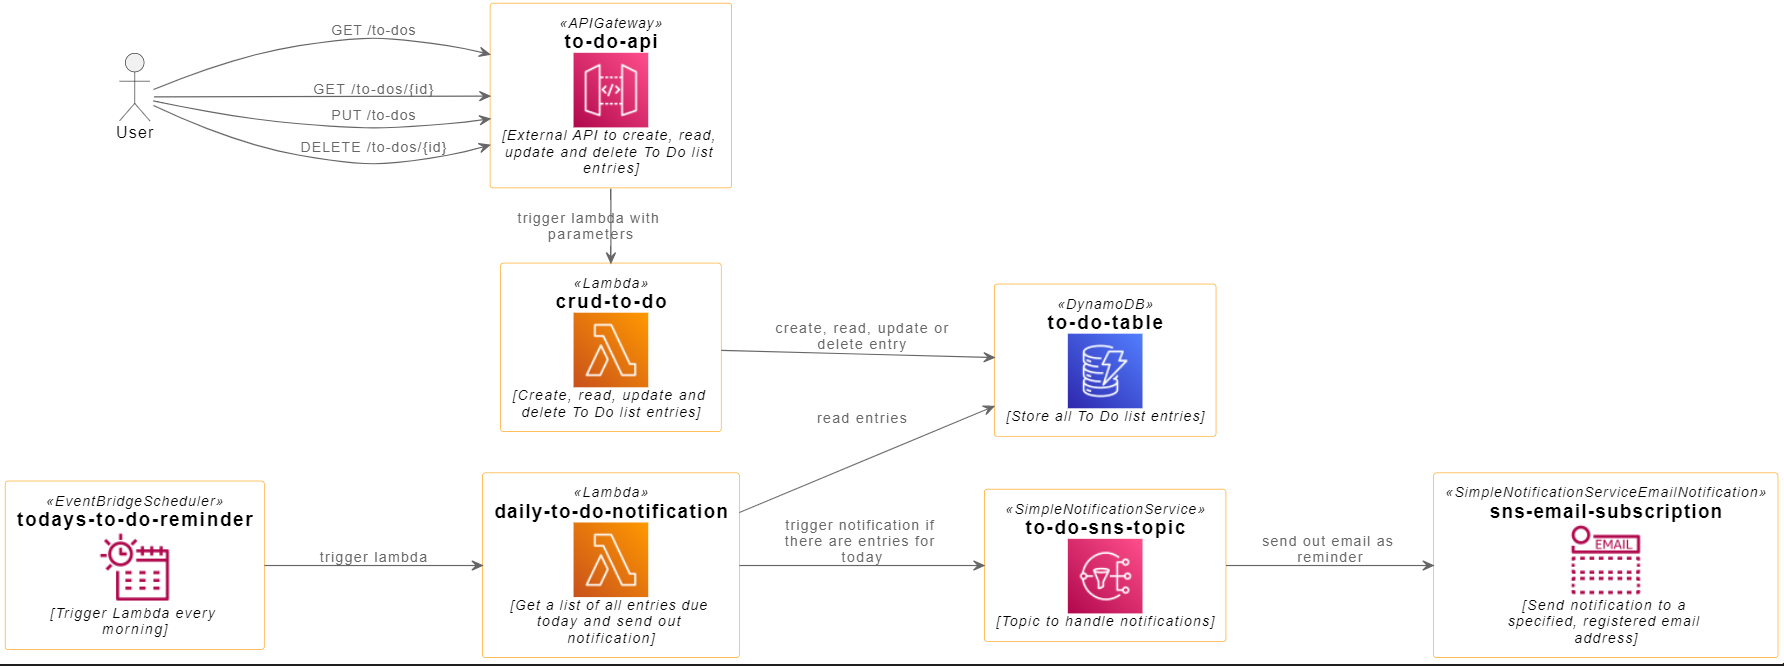
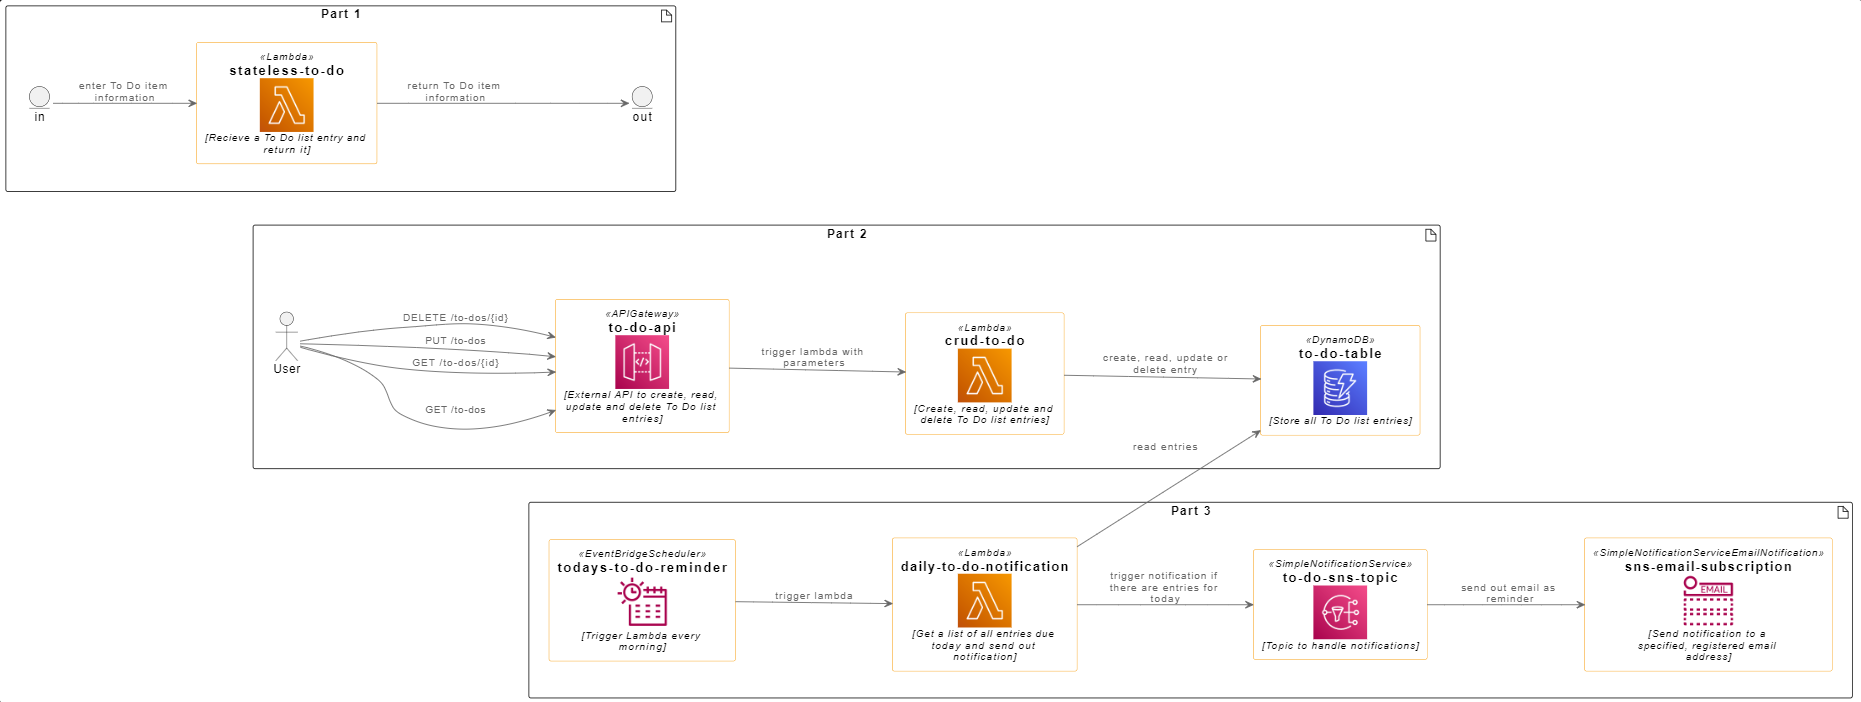
Update instructions based on workshop feedback

diff --git a/docs/HowToOnAWS.md b/docs/HowToOnAWS.md
@@ -4,9 +4,25 @@ Hints and instructions for the workshop
 
 > Leverage the Cloud to Deploy and Run your Backend App
 
-hosted by [women++](https://www.womenplusplus.ch/) and [Iris Hunkeler](https://www.linkedin.com/in/iris-hunkeler/)
+hosted by [women++](https://www.womenplusplus.ch/), facilitated by [Iris Hunkeler](https://www.linkedin.com/in/iris-hunkeler/)
 
-## … create a new IAM role
+
+# Part 1
+
+## Create a Lambda function
+* Go to AWS Lambda → click “Create function”
+* Settings
+  * Select “Author from scratch”
+  * Function name: e.g. stateless-to-do
+  * Runtime: Python 3.10
+  * Leave the rest at default settings
+  * Click “Create function”
+* Copy the code for the function: [stateless-to-do](../lambda_functions/stateless_to_do/app.py)
+  * in the same folder, you can also find test events
+
+# Part 2
+
+## Create a new IAM role
 * Go to IAM (Identity and Access Management)
 * Go to Roles → Click “Create role”
 * Step 1:
@@ -18,8 +34,7 @@ hosted by [women++](https://www.womenplusplus.ch/) and [Iris Hunkeler](https://w
   * Role name: todo-lambda-role
   * Click “Create role”
 
-
-## … create a DynamoDB table
+## Create a DynamoDB table
 * Go to DynamoDB → Click “Create table”
 * Settings
   * Table name: to-do-table
@@ -28,20 +43,21 @@ hosted by [women++](https://www.womenplusplus.ch/) and [Iris Hunkeler](https://w
   * Capacity mode “On-demand”
   * Click “Create table”
 
-
-## … create a Lambda function
-* Go to AWS Lambda → click “Create function”
-* Settings
-  * Select “Author from scratch”
-  * Function name: e.g. stateless-do-to
+## Create a Lambda function
+* Similar as before, but this time use the following settings: 
+  * Function name: e.g. crud-to-do
   * Runtime: Python 3.10
   * Open “Change default execution role” and switch it to “Use an existing role”
   * Select our previously created “todo-lambda-role”
-  * Leave the rest at default settings
-  * Click “Create function”
-
-## … create a API Gateway
+* Copy the code for the function: [crud-to-do](../lambda_functions/crud-to-do/app.py)
+  * in the same folder, you can also find test events
+  
+## Create a API Gateway
 * Go to API Gateway
+* Click "Create API"
+* Scroll to REST API and Click "Build"
+  * API name: e.g. to-do-api
+  * Click "Create API"
 * Click Actions → Create Resource
   * Resource Name: To Dos
   * Resource Path: automatically set to “to-dos” based on name
@@ -58,7 +74,15 @@ Our goal is to have an API endpoint for each of the methods we handle in the Lam
 
 ![structure](api-gateway-structure.png)
 
-## … create an SNS topic and subscription
+# Part 3
+
+## Create a Lambda function
+* Create an other Lambda function, use the same settings and role as for the crud-to-do function
+* Function name: e.g. daily-to-do-notification
+* Copy the code for the function: [daily-to-do-notification](../lambda_functions/daily-to-do-notification/app.py)
+  * in the same folder, you can also find test events
+
+## Create an SNS topic and subscription
 * **Topic**: Go to Simple Notification Service → Topics → Click “Create topic”
   * Type: Standard
   * Name: to-do-sns-topic
@@ -72,7 +96,7 @@ Our goal is to have an API endpoint for each of the methods we handle in the Lam
     * you can also use a service for throw-away-email-addresses such as [mailinator](https://www.mailinator.com/)
   * Click “Create subscription”
 
-## … create a Scheduler
+## Create a Scheduler
 * Go to Amazon EventBridge → Schedules → Click “Create schedule”
 * Step 1:
   * Schedule name: todays-to-do-reminder
@@ -89,10 +113,14 @@ Our goal is to have an API endpoint for each of the methods we handle in the Lam
   * Permissions: Create a new role for this schedule
   * Review and Click “Create schedule”
 
-## Links to source code for Lambda functions
-* [stateless-to-do](../lambda_functions/stateless_to_do/app.py)
-* [crud-to-do](../lambda_functions/crud_to_do/app.py)
-* [daily-to-do-notification](../lambda_functions/daily_to_do_notification/app.py)
 
+# Clean up
+To clean up, you can go through all the services we have used, select the created resources and Click "Delete" 
+(sometimes you need to click "Actions" first).
 
-
+Used services:
+* Lambda
+* DynamoDB
+* API Gateway
+* Simple Notification Service
+* Scheduler

diff --git a/README.md b/README.md
@@ -14,9 +14,15 @@ This project contains source code and supporting files for a serverless applicat
 
 The application uses several AWS resources, including Lambda functions and an API Gateway API. These resources are defined in the `template.yaml` file in this project. You can update the template to add AWS resources through the same deployment process that updates your application code.
 
-## Deploy the sample application
+## Build the application manually in the AWS Management Console
+To build and deploy the the application manually, follow the instructions in 
+[HowToOnAWS](./docs/HowToOnAWS.md)
 
-The Serverless Application Model Command Line Interface (SAM CLI) is an extension of the AWS CLI that adds functionality for building and testing Lambda applications. It uses Docker to run your functions in an Amazon Linux environment that matches Lambda. It can also emulate your application's build environment and API.
+## Deploy the application using SAM
+
+:warning: This is still under construction and not yet completed!
+
+The Serverless Application Model Command Line Interface (SAM CLI) is an extension of the AWS CLI that adds functionality for building and testing Lambda applications. It uses Docker to run  functions in an Amazon Linux environment that matches Lambda. It can also emulate an application's build environment and API.
 
 To use the SAM CLI, you need the following tools.
 
@@ -38,18 +44,20 @@ You can find your API Gateway Endpoint URL in the output values displayed after 
 
 ## Use the SAM CLI to build and test locally
 
+:warning: This is still under construction and not yet completed!
+
 ```bash
 # build application
 cloud-to-do-app$ sam build --use-container
 ```
 
-The SAM CLI installs dependencies defined in `hello_world/requirements.txt`, creates a deployment package, and saves it in the `.aws-sam/build` folder.
+The SAM CLI installs dependencies, creates a deployment package, and saves it in the `.aws-sam/build` folder.
 
 Test a single function by invoking it directly with a test event. An event is a JSON document that represents the input that the function receives from the event source. Test events are included in the `events` folder in this project.
 
 ```bash
 # run functions locally
-cloud-to-do-app$ sam local invoke HelloWorldFunction --event events/event.json
+cloud-to-do-app$ sam local invoke CrudToDoFunction --event events/event.json
 ```
 
 The SAM CLI can also emulate your application's API. Use the `sam local start-api` to run the API locally on port 3000.
